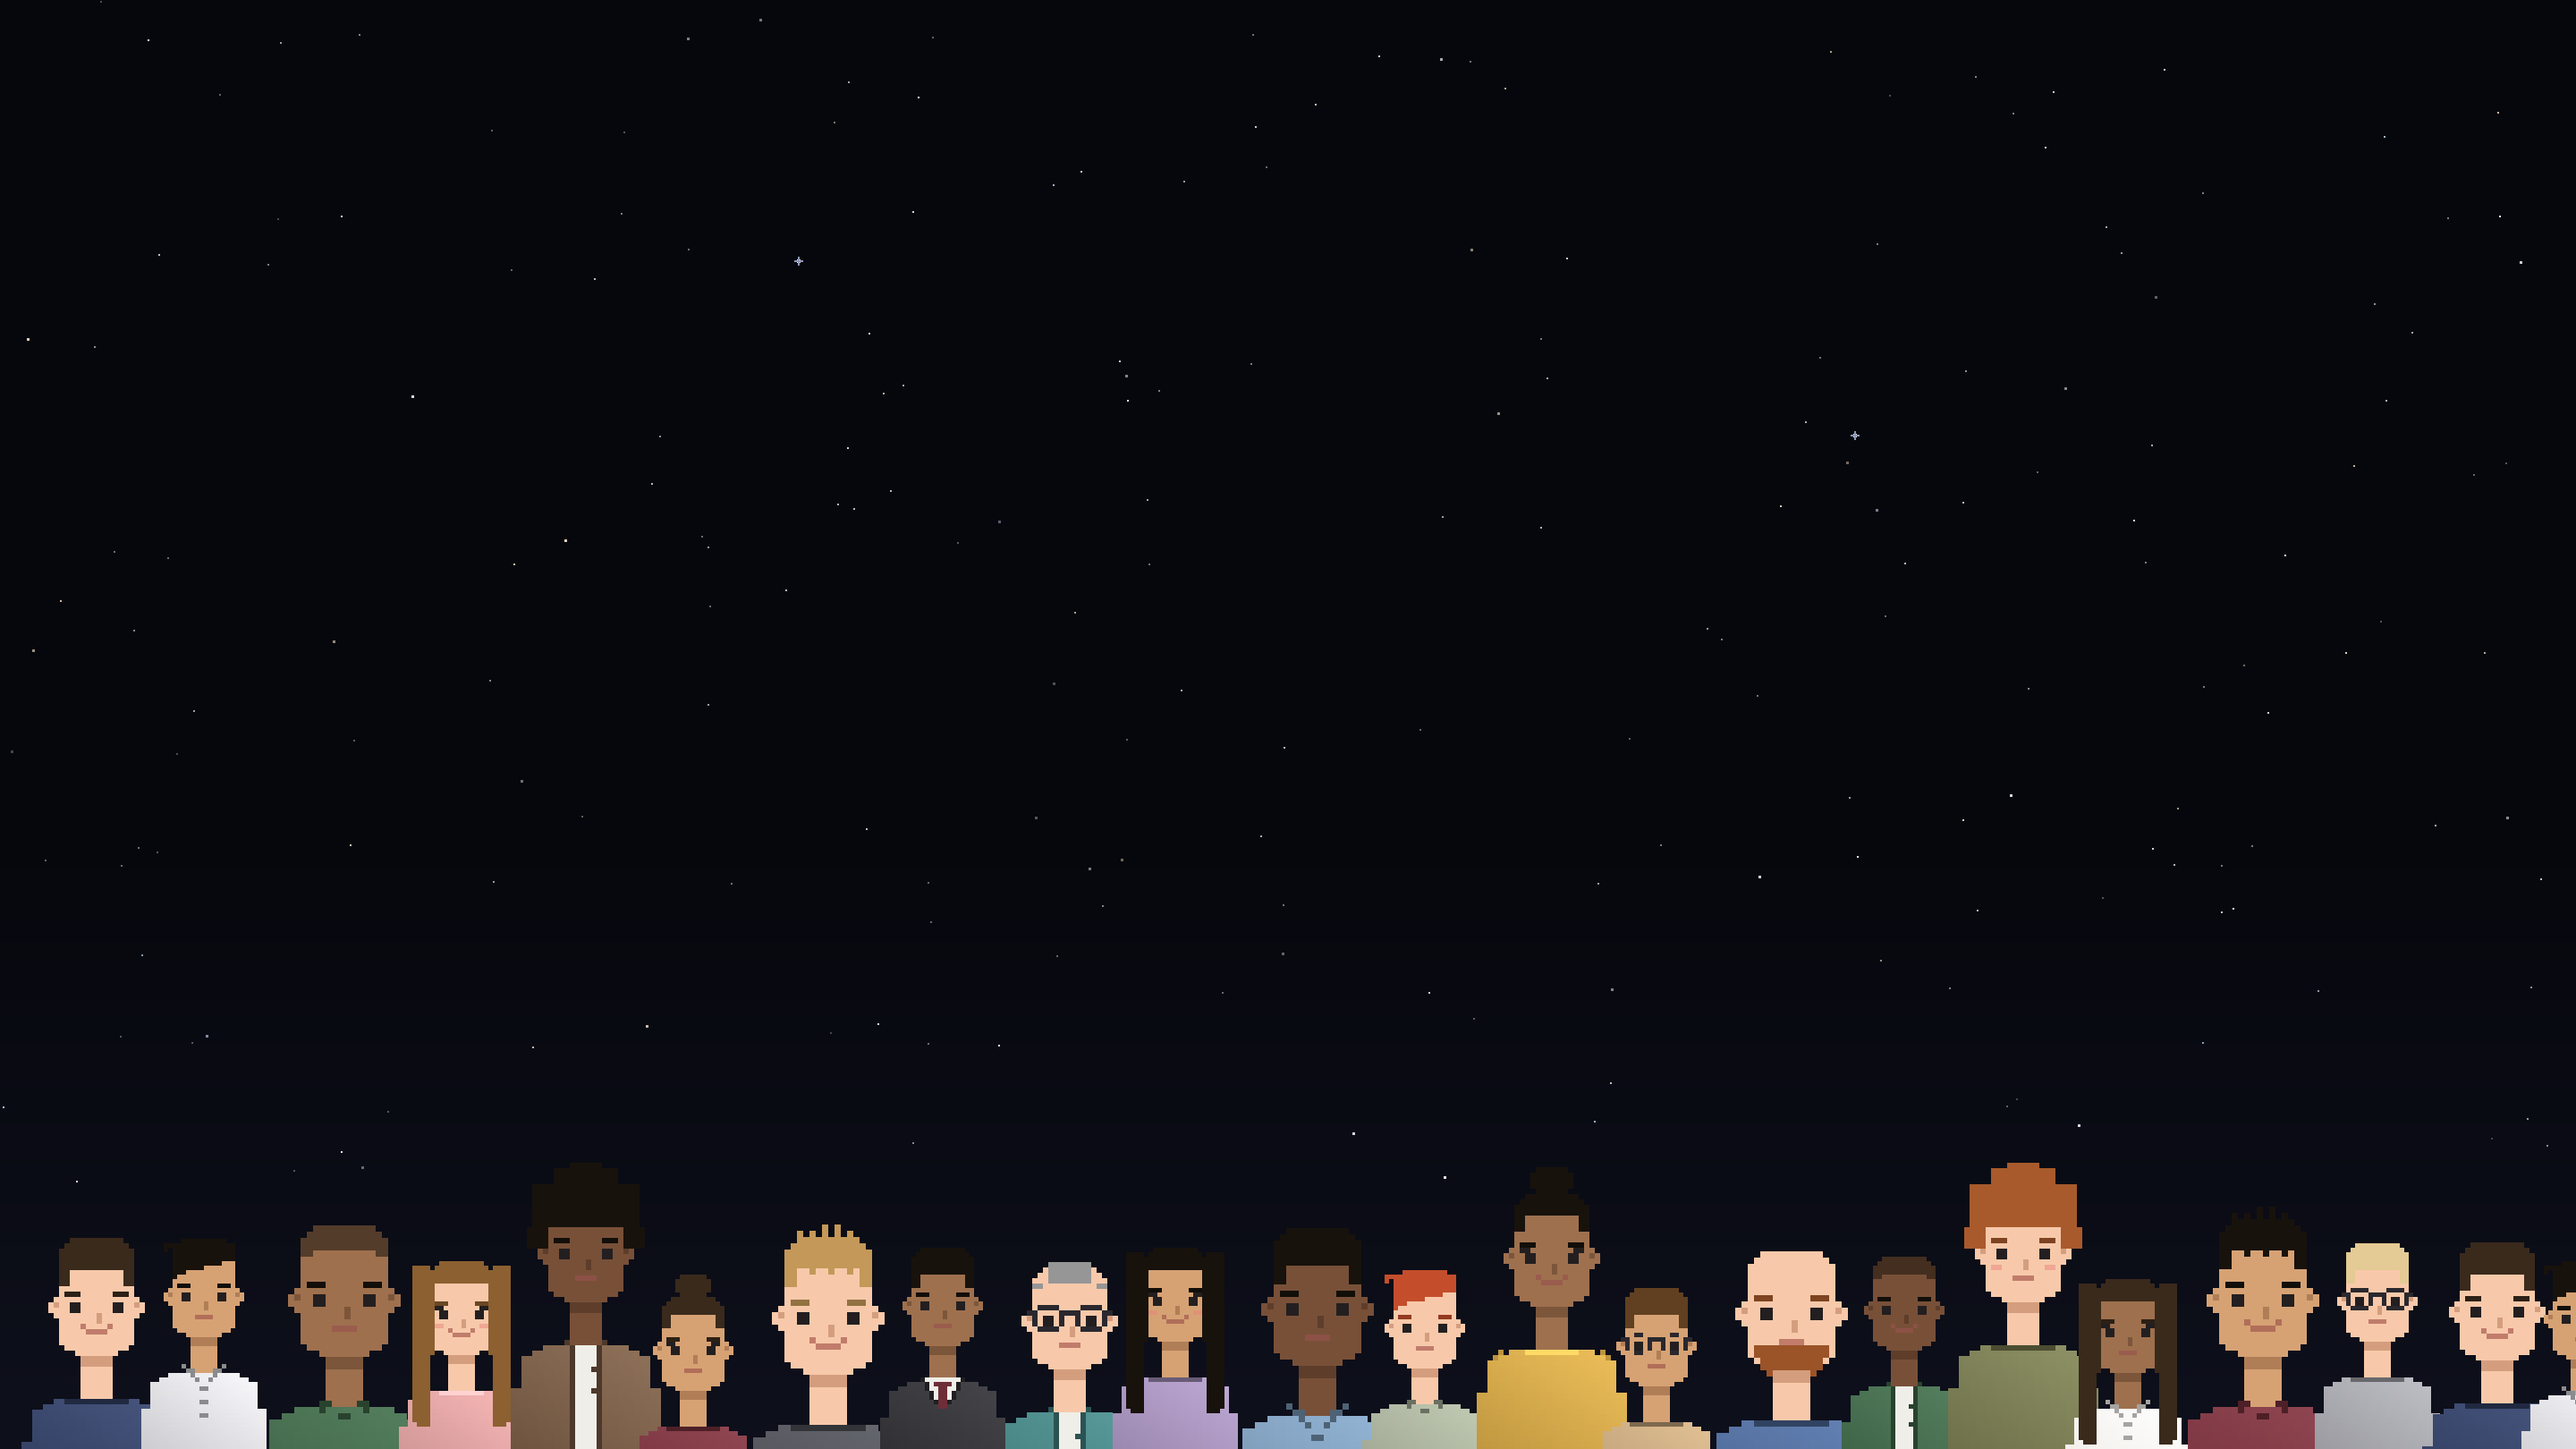
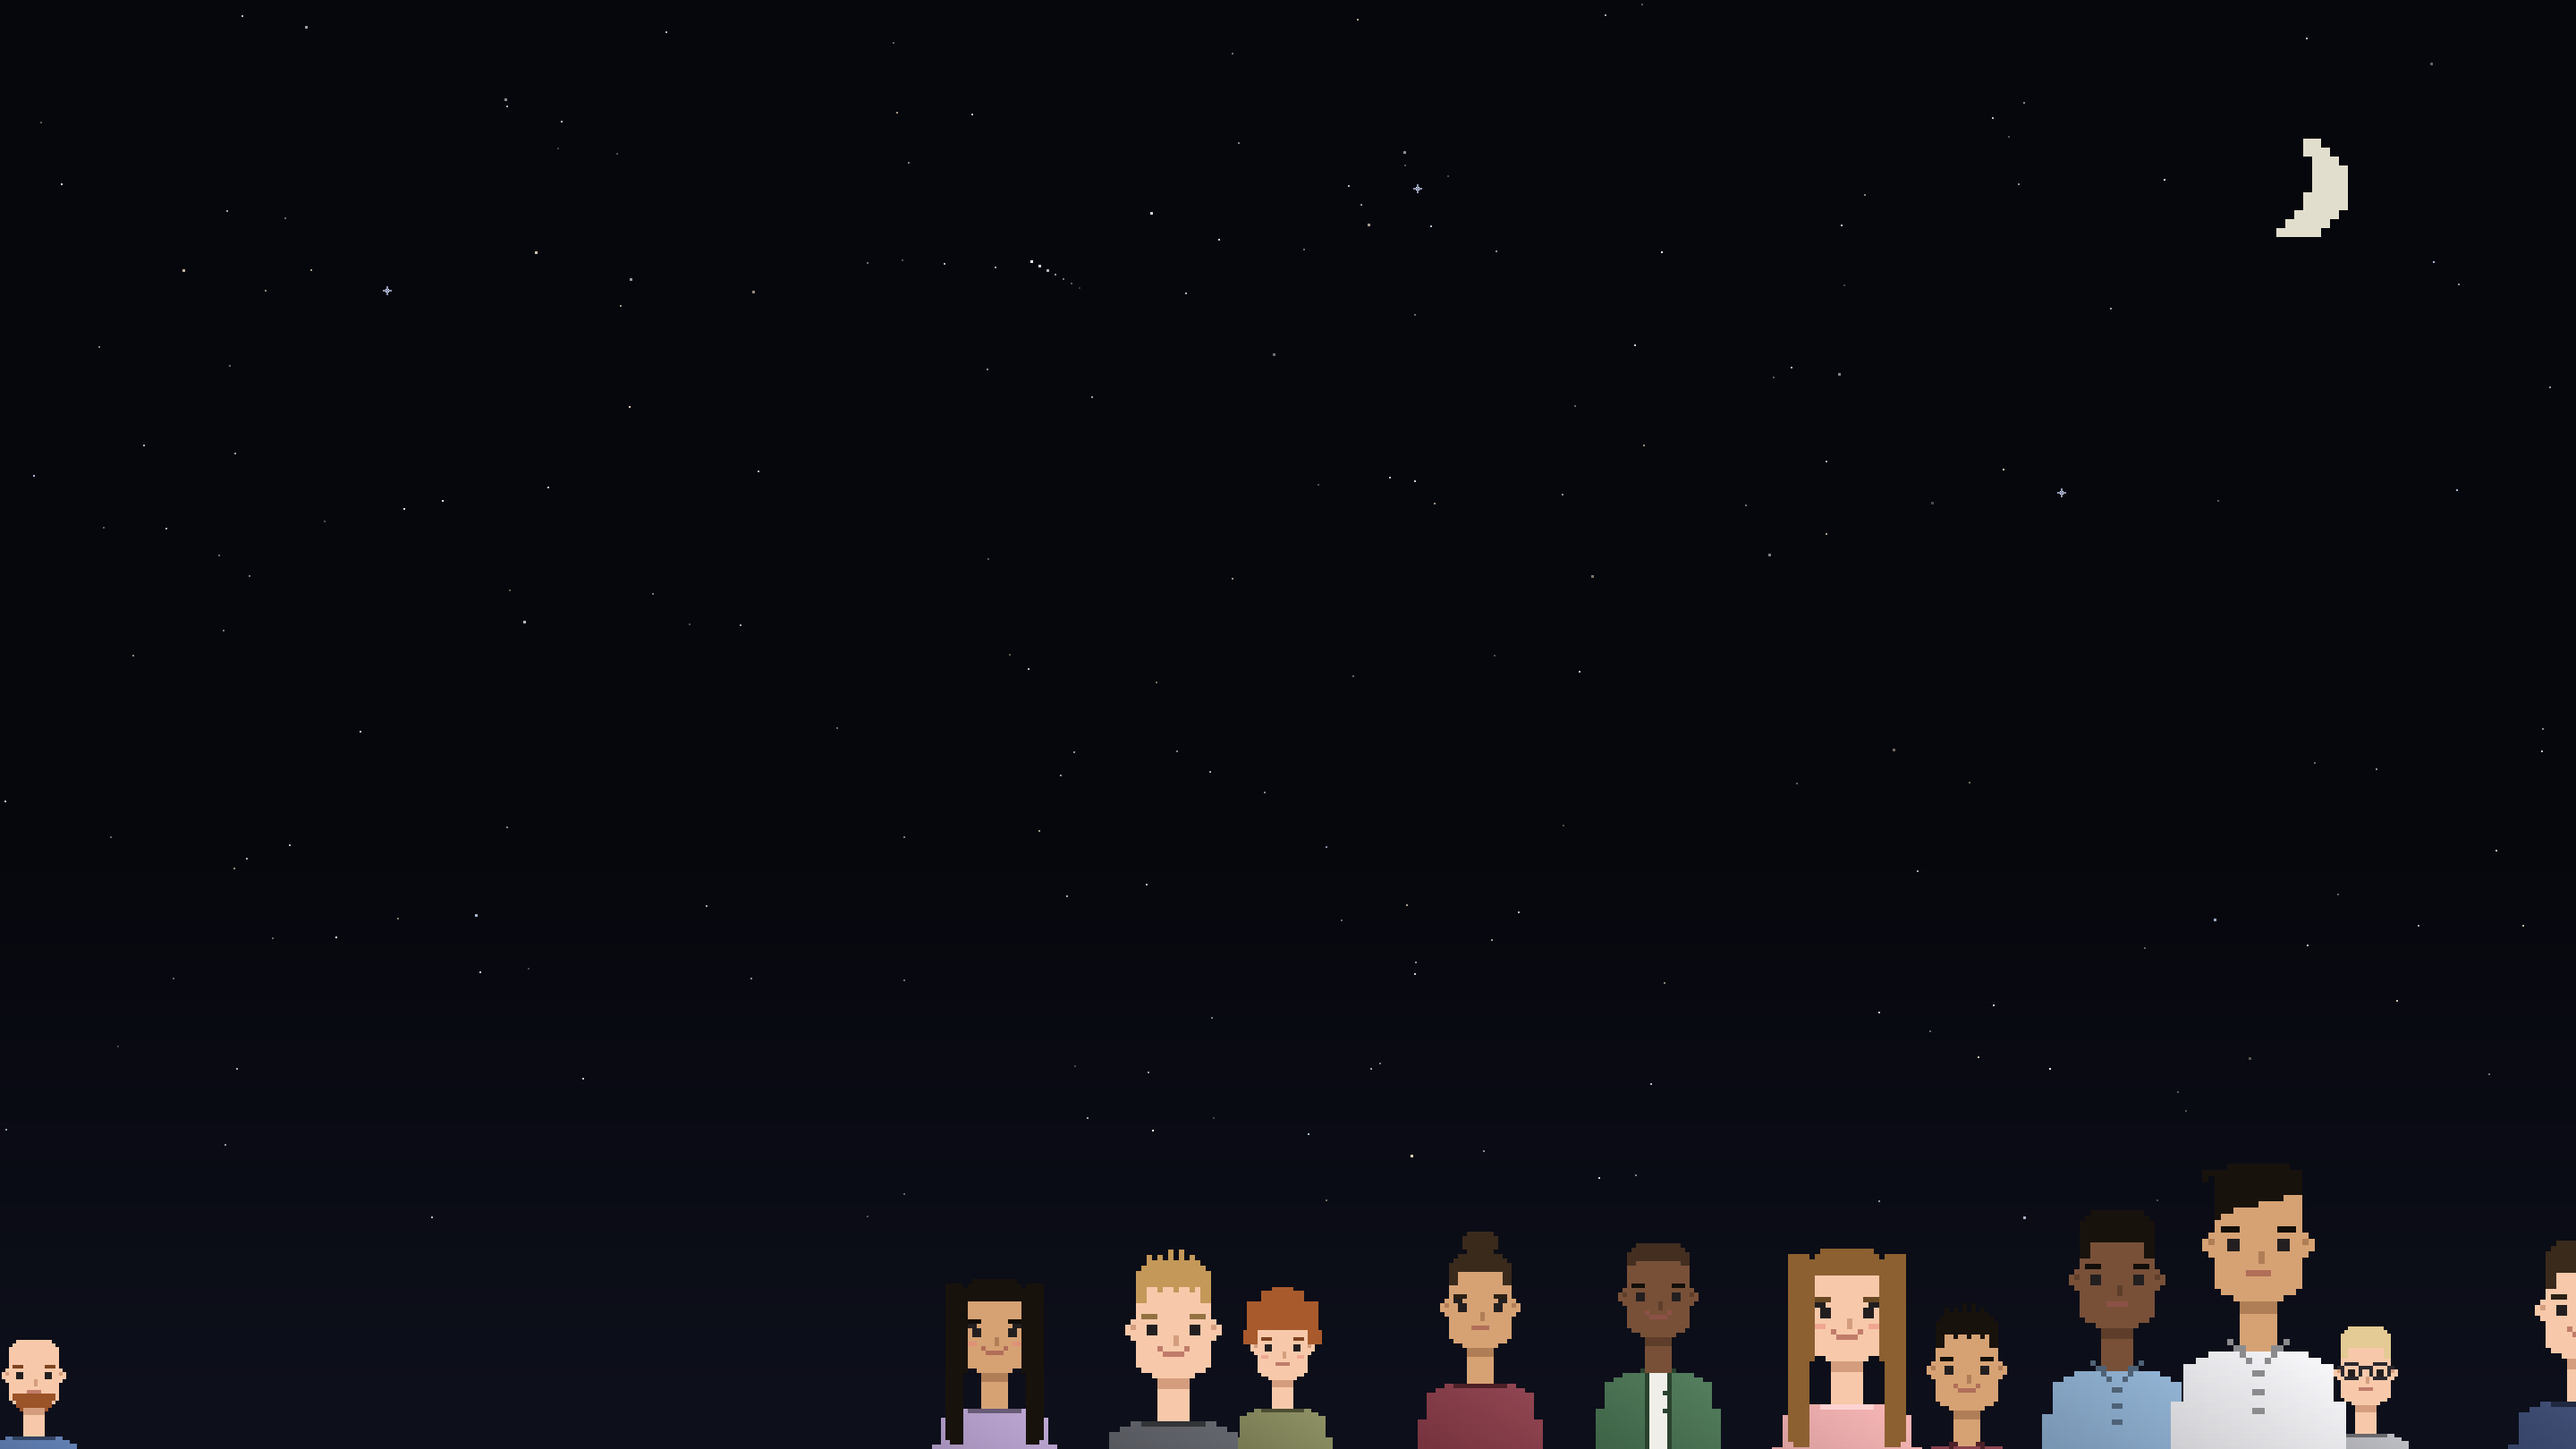
auth: full-bleed night sky, form left, crowd weighted right
The framed panel felt off — replaced with one full-bleed background: clear sky
over the left-anchored form, dense imperfect crowd from ~36% to the right edge,
moon fully visible top-right, one small pixie peeking from the bottom-left
corner. Wordmark stays top-left on desktop; phone/tablet unchanged.

Changed region(s): [[0.0, 0.8025, 1.0, 1.0], [0.875, 0.0926, 0.9375, 0.1852]]

diff --git a/apps/web/src/app/(auth)/layout.tsx b/apps/web/src/app/(auth)/layout.tsx
@@ -2,19 +2,12 @@ import Link from 'next/link';
 
 export default function AuthLayout({ children }: { children: React.ReactNode }) {
   return (
-    <div className="relative min-h-screen bg-[#07070c] lg:flex">
+    <div className="auth-bg relative flex min-h-screen items-center justify-center bg-[#07070c] p-6 lg:justify-start lg:pl-[7vw]">
       {/* desktop wordmark, top-left */}
-      <Link href="/" className="absolute left-8 top-6 z-10 hidden text-xl font-semibold tracking-tight text-white lg:block">opersona.me</Link>
-      {/* form column: whole screen on mobile/tablet, left column on desktop */}
-      <div className="auth-bg flex min-h-screen w-full items-center justify-center p-6 lg:w-[44%] lg:flex-none">
-        <div className="w-full max-w-sm">
-          <Link href="/" className="mb-6 block text-center text-2xl font-semibold tracking-tight text-white drop-shadow-[0_1px_4px_rgba(0,0,0,0.8)] lg:hidden">opersona.me</Link>
-          <div className="card bg-white/95 backdrop-blur-sm dark:bg-neutral-900/95">{children}</div>
-        </div>
-      </div>
-      {/* the Pixie crowd, framed — desktop only */}
-      <div className="hidden lg:flex lg:min-h-screen lg:flex-1 lg:p-5 lg:pl-0">
-        <div className="auth-panel w-full self-stretch overflow-hidden rounded-3xl border border-neutral-800/80" />
+      <Link href="/" className="absolute left-8 top-6 hidden text-xl font-semibold tracking-tight text-white lg:block">opersona.me</Link>
+      <div className="w-full max-w-sm">
+        <Link href="/" className="mb-6 block text-center text-2xl font-semibold tracking-tight text-white drop-shadow-[0_1px_4px_rgba(0,0,0,0.8)] lg:hidden">opersona.me</Link>
+        <div className="card bg-white/95 backdrop-blur-sm dark:bg-neutral-900/95">{children}</div>
       </div>
     </div>
   );

diff --git a/apps/web/src/app/globals.css b/apps/web/src/app/globals.css
@@ -124,14 +124,3 @@ code, kbd { overflow-wrap: anywhere; }
 @media (max-width: 640px), (max-aspect-ratio: 3/4) {
   .auth-bg { background-image: url('/auth-bg-mobile.png'); }
 }
-
-/* ≥lg the form column goes plain (the crowd lives in the right-hand panel) */
-@media (min-width: 1024px) {
-  .auth-bg { background-image: none; }
-}
-.auth-panel {
-  background-image: url('/auth-panel.png');
-  background-size: cover;
-  background-position: center bottom;
-  image-rendering: pixelated;
-}
